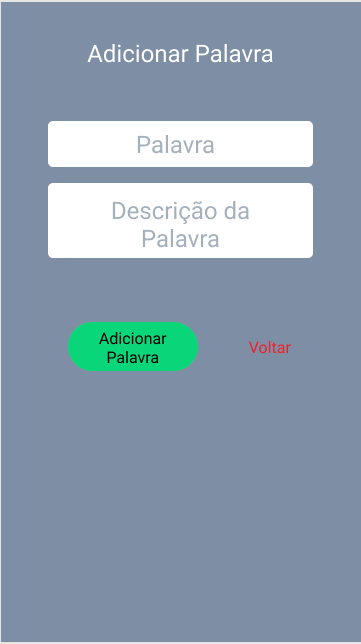
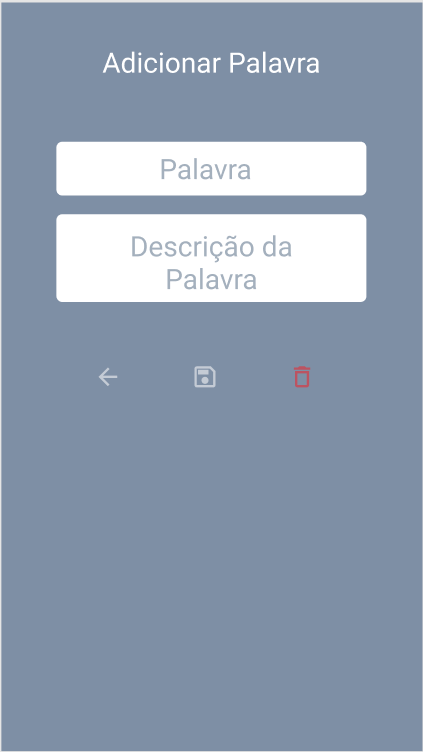
Melhorando tela de add palavra

diff --git a/src/pages/AddWord/index.js b/src/pages/AddWord/index.js
@@ -1,12 +1,64 @@
 import React from 'react';
-import {View, Text} from 'react-native';
+import {View, Text, TextInput, StyleSheet} from 'react-native';
+
+import Icon from 'react-native-vector-icons/MaterialIcons';
+
+import Colors from '../../style/Colors';
 
 const AddWord = () => {
   return (
-    <View>
-      <Text>AddWord</Text>
+    <View style={styles.container}>
+      <Text style={styles.label}>Adicionar Palavra</Text>
+      <TextInput style={styles.word} placeholder="Palavra" />
+      <TextInput
+        style={styles.wordDescription}
+        multiline={true}
+        placeholder="Descrição da palavra"
+      />
+
+      <View style={styles.actionButtons}>
+        <Icon name="arrow-back" size={30} color="#fff" />
+        <Icon name="save" size={30} color="#fff" />
+        <Icon name="delete" size={30} color="#EA2027" />
+      </View>
     </View>
   );
 };
+
+const styles = StyleSheet.create({
+  container: {
+    flex: 1,
+    backgroundColor: Colors.background,
+  },
+  label: {
+    textAlign: 'center',
+    fontSize: 25,
+    color: Colors.white,
+    paddingTop: 20,
+  },
+  word: {
+    backgroundColor: Colors.white,
+    fontSize: 25,
+    textAlign: 'center',
+    marginLeft: 50,
+    marginRight: 50,
+    borderRadius: 5,
+    marginTop: 50,
+  },
+  wordDescription: {
+    backgroundColor: Colors.white,
+    fontSize: 18,
+    height: 100,
+    marginLeft: 50,
+    marginRight: 50,
+    borderRadius: 5,
+    marginTop: 10,
+  },
+  actionButtons: {
+    flexDirection: 'row',
+    justifyContent: 'space-around',
+    paddingTop: 40,
+  },
+});
 
 export default AddWord;

diff --git a/src/components/WordList/index.js b/src/components/WordList/index.js
@@ -1,0 +1,63 @@
+import React from 'react';
+import {View, Text, FlatList, TouchableOpacity, StyleSheet} from 'react-native';
+
+import WordListItem from '../WordList/WordListItem';
+
+import Colors from '../../style/Colors';
+
+//Vai vir do BD Futuramente
+const data = [
+  {id: '0', word: 'Periondotia'},
+  {id: '1', word: 'Samaritano'},
+  {id: '2', word: 'Hipocondríaco'},
+  {id: '3', word: 'Efêmero'},
+  {id: '4', word: 'Estalaquitite'},
+  {id: '5', word: 'Efeminado'},
+  {id: '6', word: 'Alérgico'},
+  {id: '7', word: 'Cow'},
+  {id: '8', word: 'Ox'},
+  {id: '9', word: 'Barefoot'},
+];
+
+const WordList = () => {
+  const renderItem = ({item}) => <WordListItem word={item.word} />;
+
+  return (
+    <View style={styles.container}>
+      <View>
+        <FlatList
+          data={data}
+          renderItem={renderItem}
+          keyExtractor={(item) => item.id}
+        />
+      </View>
+
+      <TouchableOpacity style={styles.addWordButton}>
+        <Text style={styles.addWordText}>Adicionar Palavra</Text>
+      </TouchableOpacity>
+    </View>
+  );
+};
+
+const styles = StyleSheet.create({
+  container: {
+    flex: 1,
+  },
+  addWordButton: {
+    alignItems: 'center',
+    marginTop: 30,
+    backgroundColor: Colors.green,
+    elevation: 10,
+    marginLeft: 50,
+    marginRight: 50,
+    borderRadius: 50,
+  },
+  addWordText: {
+    fontSize: 18,
+    color: Colors.black,
+    paddingTop: 15,
+    paddingBottom: 15,
+  },
+});
+
+export default WordList;

diff --git a/src/components/WordList/WordListItem/index.js b/src/components/WordList/WordListItem/index.js
@@ -1,0 +1,38 @@
+import React from 'react';
+import {View, Text, TouchableOpacity, StyleSheet} from 'react-native';
+
+import Icon from 'react-native-vector-icons/MaterialIcons';
+
+import Colors from '../../../style/Colors';
+
+const WordListItem = ({word}) => {
+  return (
+    <View>
+      <View style={styles.wordList}>
+        <Text style={styles.wordItem}>
+          <Icon name="fiber-manual-record" size={12} color="#ede" />
+          {word}
+        </Text>
+      </View>
+    </View>
+  );
+};
+
+const styles = StyleSheet.create({
+  wordList: {
+    flexDirection: 'row',
+    justifyContent: 'center',
+    paddingLeft: 140,
+    padding: 1,
+  },
+  wordItem: {
+    flex: 1,
+    fontSize: 18,
+    color: Colors.white,
+  },
+  editButton: {
+    paddingRight: 10,
+  },
+});
+
+export default WordListItem;

diff --git a/src/pages/Main/index.js b/src/pages/Main/index.js
@@ -5,6 +5,7 @@ import TotalWordsLabel from '../../components/TotalWords/TotalWordsLabel';
 import TotalWords from '../../components/TotalWords';
 import SearchWordLabel from '../../components/SearchWords/SearchWordLabel';
 import SearchWords from '../../components/SearchWords';
+import WordList from '../../components/WordList';
 
 import Colors from '../../style/Colors';
 
@@ -15,6 +16,7 @@ const Main = () => {
       <TotalWords />
       <SearchWordLabel />
       <SearchWords />
+      <WordList />
     </View>
   );
 };

diff --git a/index.js b/index.js
@@ -4,7 +4,7 @@
 
 import {AppRegistry} from 'react-native';
 // import App from './App';
-import Main from './src/pages/Main';
+import addWord from './src/pages/AddWord';
 import {name as appName} from './app.json';
 
-AppRegistry.registerComponent(appName, () => Main);
+AppRegistry.registerComponent(appName, () => addWord);

diff --git a/src/components/SearchWords/index.js b/src/components/SearchWords/index.js
@@ -26,10 +26,10 @@ const styles = StyleSheet.create({
   container: {
     flexDirection: 'row',
     justifyContent: 'center',
+    marginBottom: 30,
   },
   wordSearch: {
     backgroundColor: Colors.white,
-    borderWidth: 1,
     borderRadius: 150,
     width: '65%',
     marginTop: 35,

diff --git a/src/components/SearchWords/SearchWordLabel/index.js b/src/components/SearchWords/SearchWordLabel/index.js
@@ -16,7 +16,7 @@ const styles = StyleSheet.create({
     fontSize: 18,
     textAlign: 'center',
     color: Colors.white,
-    paddingTop: 50,
+    paddingTop: 30,
   },
 });
 

diff --git a/src/style/Colors.js b/src/style/Colors.js
@@ -4,6 +4,7 @@ const Colors = {
   red: '#EA2027',
   green: '#2ED573',
   black: '#000000',
+  lightGrey: '#ecf0f1',
 };
 
 export default Colors;

diff --git a/README.md b/README.md
@@ -22,9 +22,12 @@ Inserir cada palavra e seu significado através de uma tela de cadastro.
 
 ![](https://github.com/edercirino/meudicionariopessoal/blob/main/src/style/mpdAddWord.png)  
 
+### Editar palavra já existente
 
+É possível editar a palavra já cadastrada. O ícone salvar muda de cor quando  
+a palavra já existe.
 
-### Relatório dos Principais clientes
+![](https://github.com/edercirino/meudicionariopessoal/blob/main/src/style/mpdEditWord.png)
 
 ## Como executá-lo
 
@@ -70,3 +73,22 @@ Foi feito nesse dia:
 O desafio desse dia foi:  
 
 * Procurar a melhor maneira de organizar os componentes na árvore de diretórios.
+
+### Dia 3 - 16/12/2020
+
+Foi feito nesse dia:
+
+* estilização de componentes e posicionamento
+
+O desafio desse dia foi:  
+
+* Organizar melhor as telas do app
+### Dia 4 - 17/12/2020
+
+Foi feito nesse dia:
+
+* Melhorando a tela de adicionar palavra
+
+O desafio desse dia foi:  
+
+* Encontrar a melhor maneira de para montar uma tela para quando a palavra for editada.
